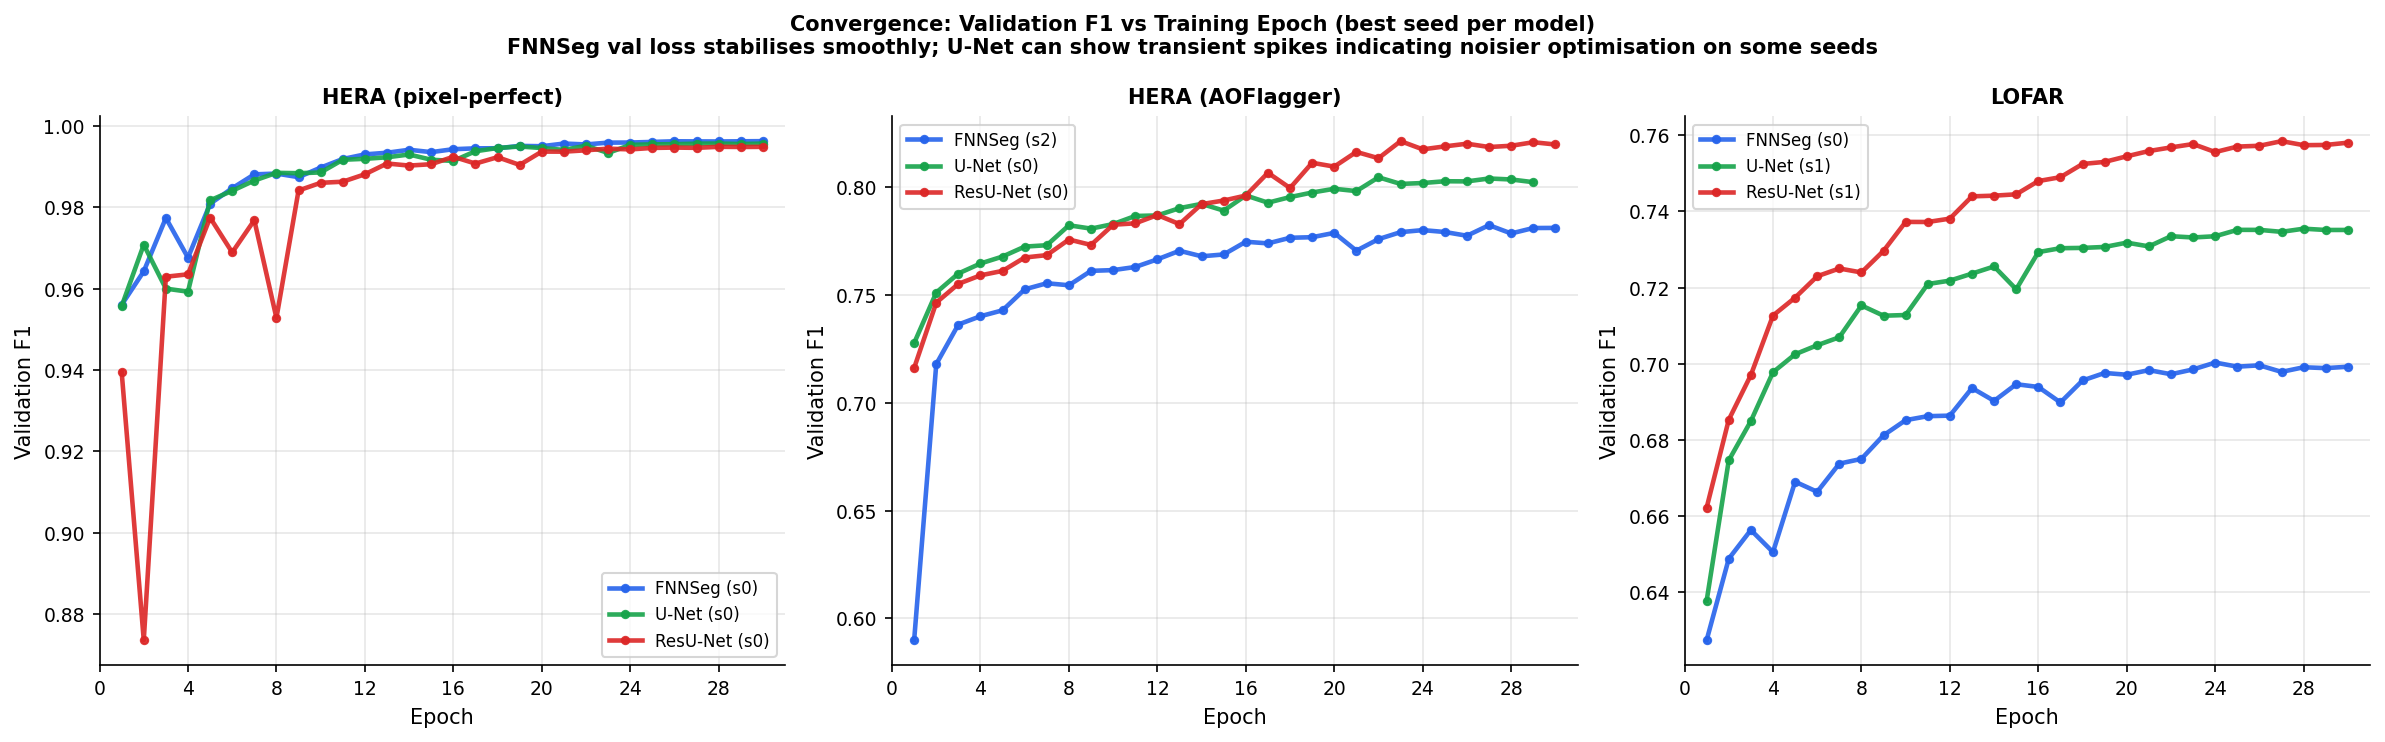
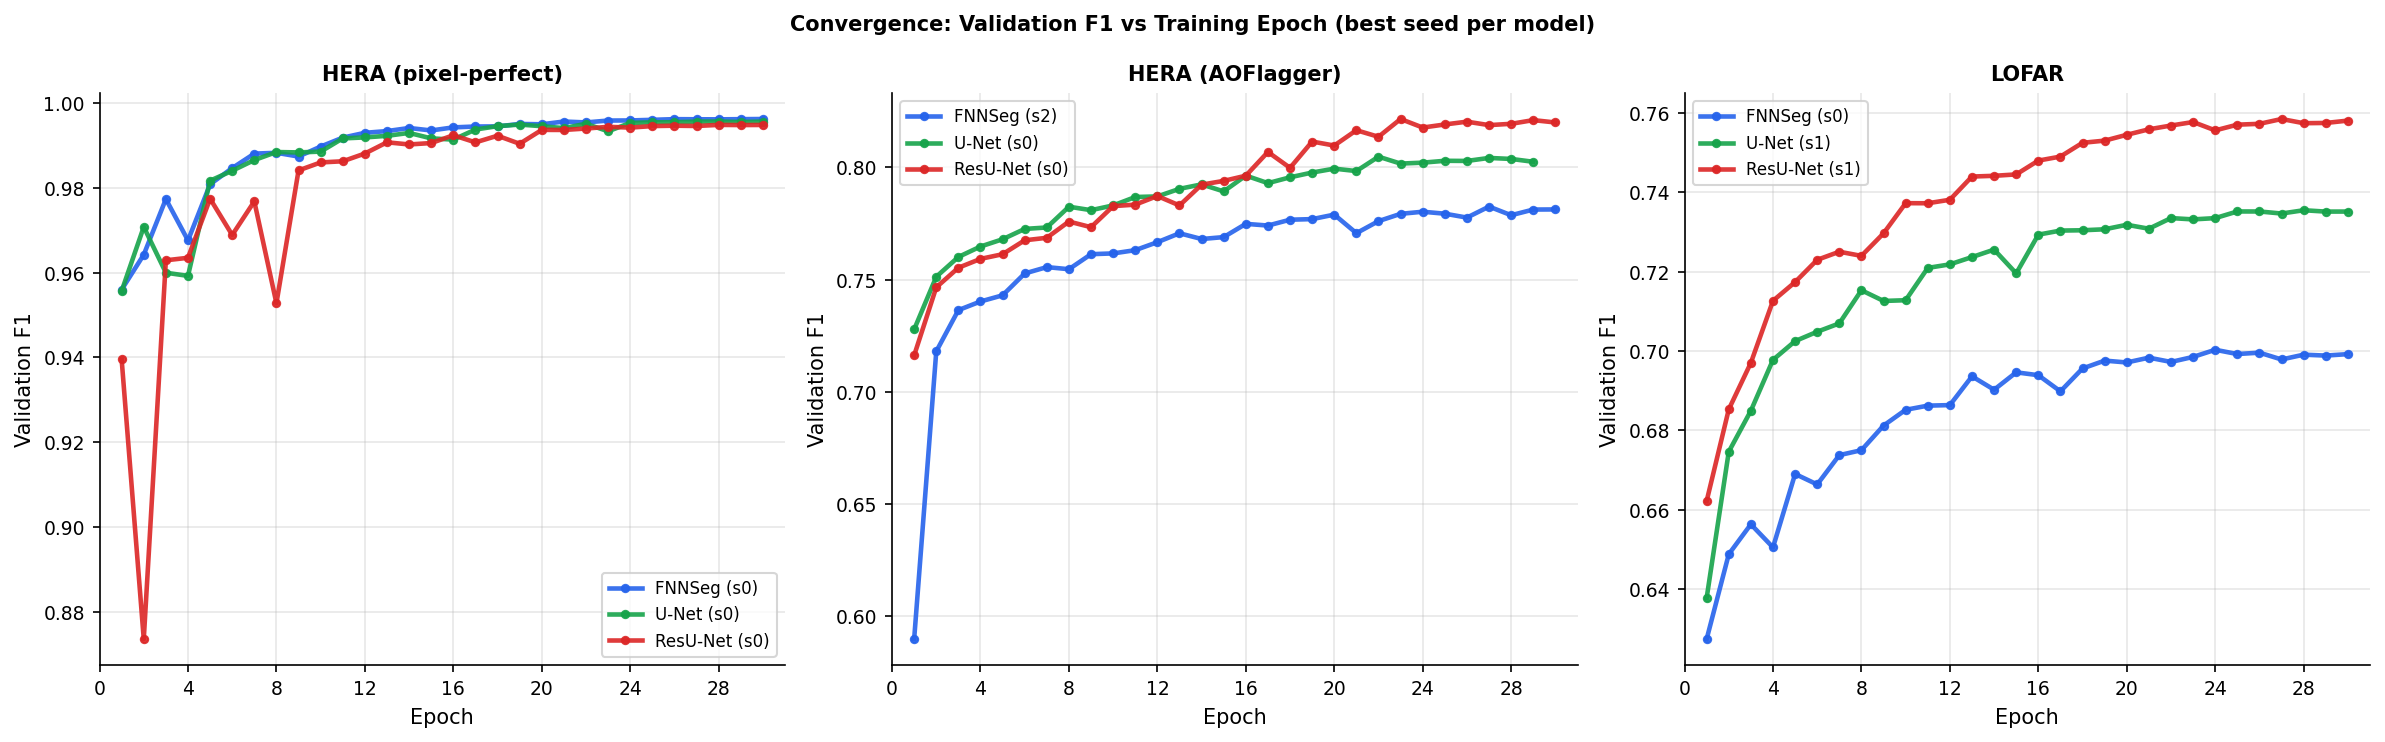
Update convergence plot title for clarity

diff --git a/scripts/generate_thesis_plots.py b/scripts/generate_thesis_plots.py
@@ -593,9 +593,7 @@ def fig_convergence():
         ax.set_xlim(0, 31)
         ax.xaxis.set_major_locator(MaxNLocator(integer=True, nbins=10))
         ax.grid(axis="y", alpha=0.3)
-    fig.suptitle("Convergence: Validation F1 vs Training Epoch (best seed per model)\n"
-                 "FNNSeg val loss stabilises smoothly; U-Net can show transient spikes"
-                 " indicating noisier optimisation on some seeds",
+    fig.suptitle("Convergence: Validation F1 vs Training Epoch (best seed per model)",
                  fontsize=10, fontweight="bold")
     fig.tight_layout()
     path = f"{OUTDIR}/fig12_convergence.png"
